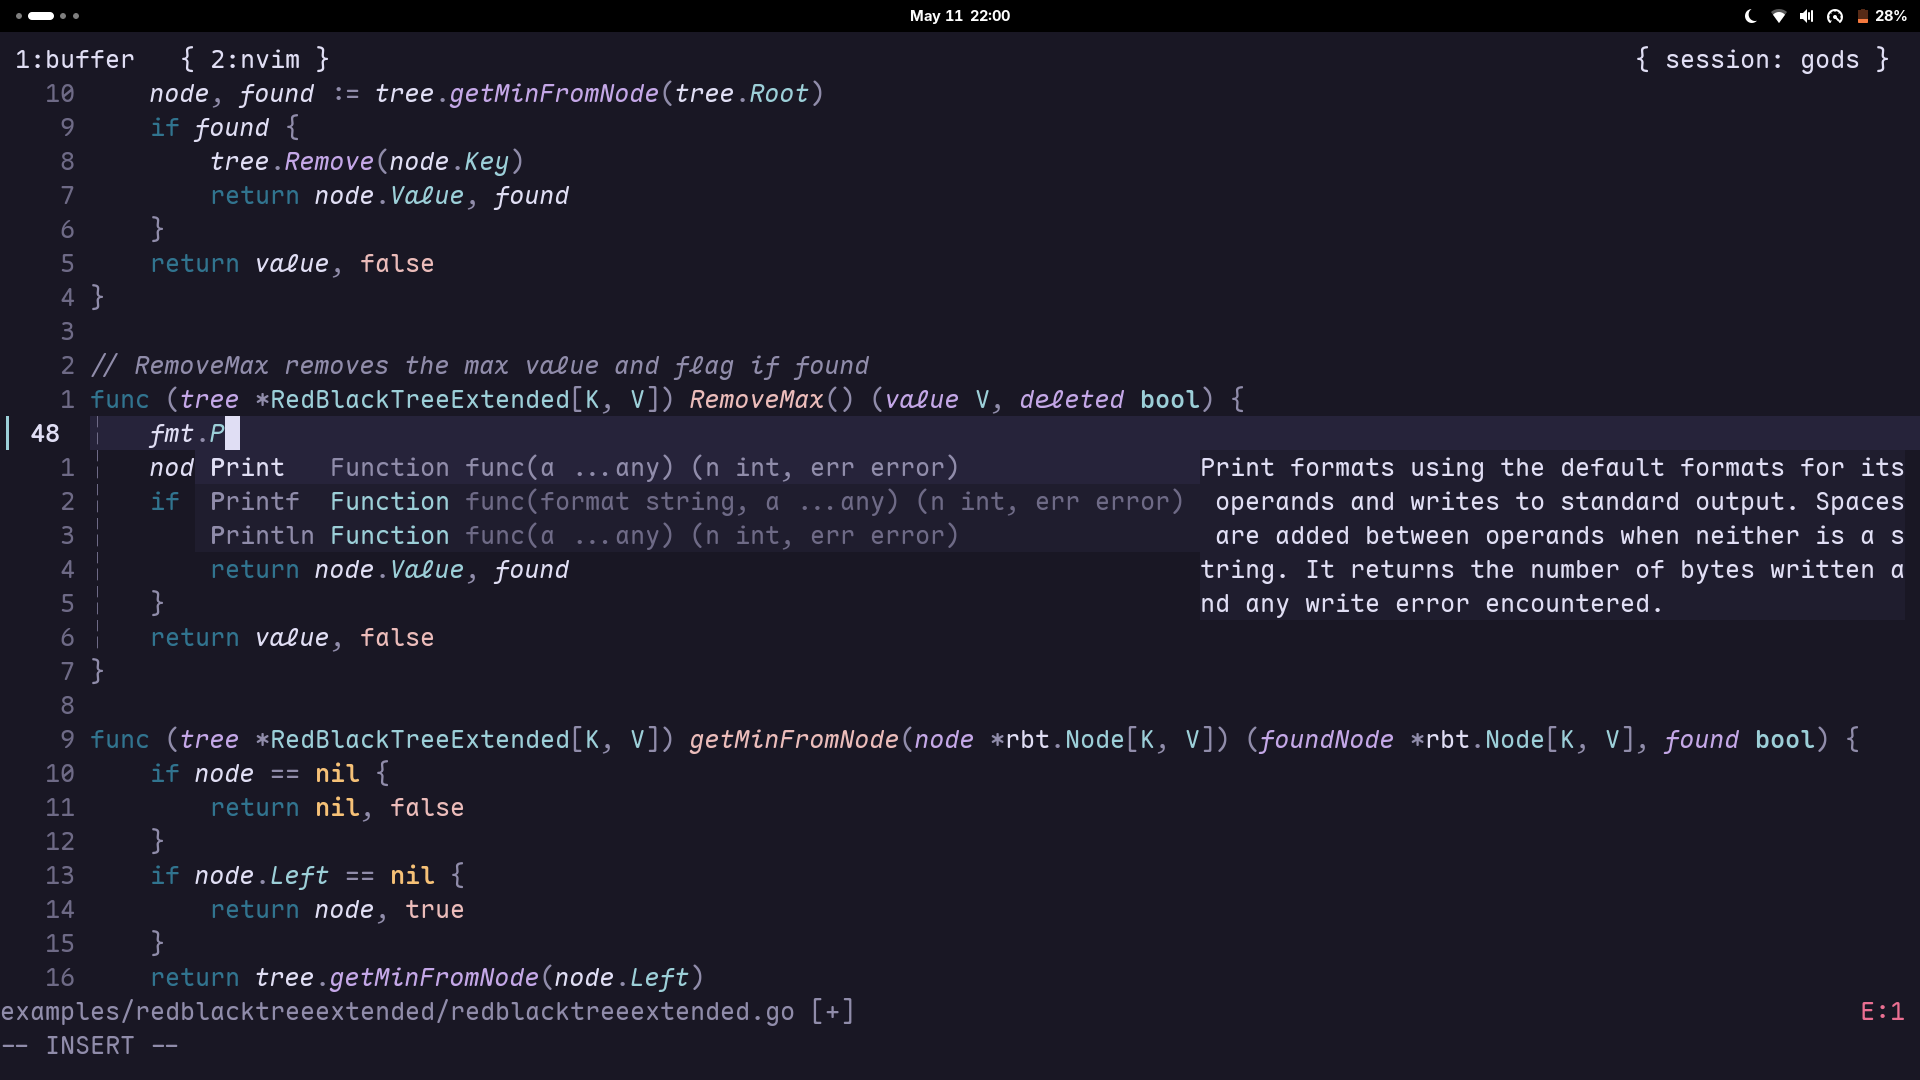
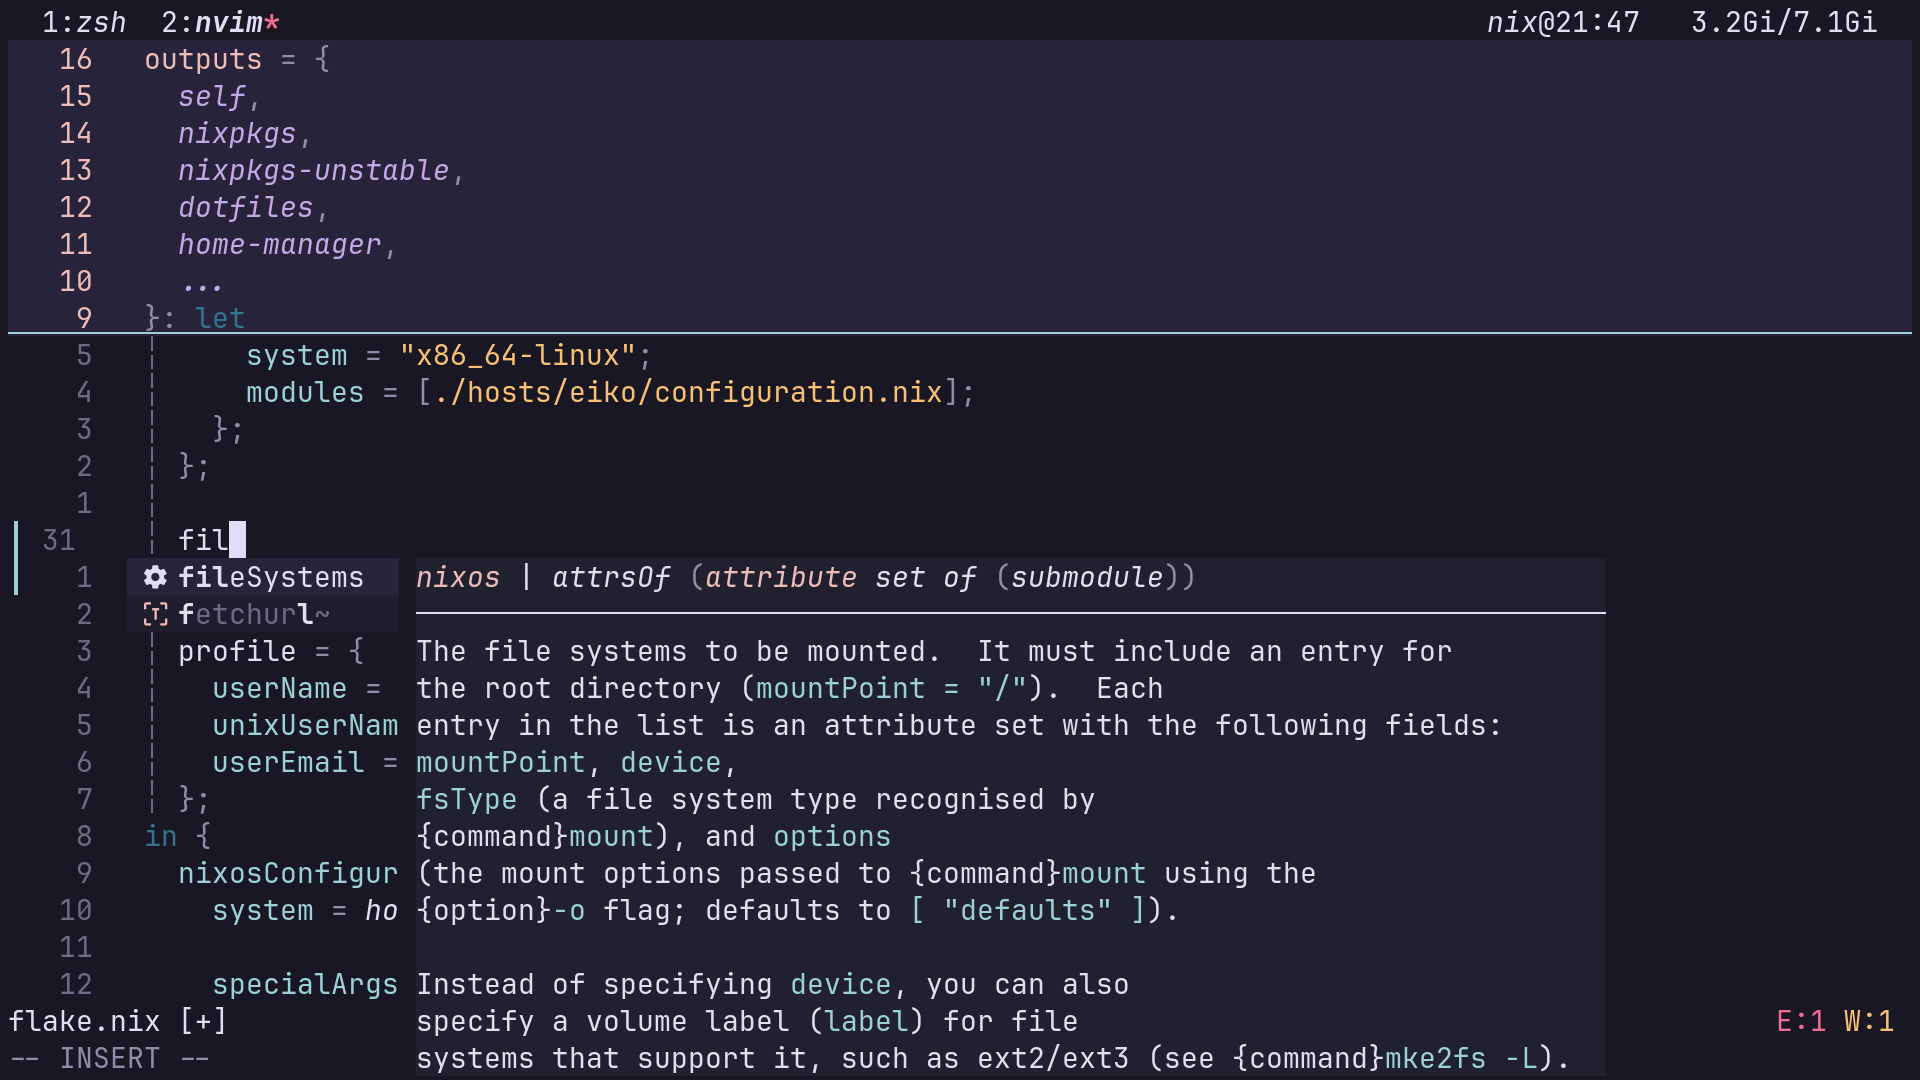
Edit home page

diff --git a/content/_index.md b/content/_index.md
@@ -28,17 +28,23 @@ Feel free to reach out, these are my usual handles.
 
 <br>
 
-I also enjoy spending my time on the little details.
-
-<br>
-
-![dotfiles](dotfiles.png)
-
-<br>
+I also enjoy spending my time on the little details. Here's a little sneak peak.
 
 My [dotfiles](https://github.com/TheRootDaemon/dotfiles) are a good example of that.
 They started as a way to _manage_ my **_development environment_** and
-gradually became something I genuinely enjoy maintaining.
+gradually became something I genuinely enjoy maintaining, here's a little sneak peak.
+
+<br>
+
+![dotfiles](/dotfiles.png)
+
+<br>
+
+And that eventually led me to [NixOS](https://nixos.org),
+where I manage my system **_declaratively_**.
+
+You can find my nixos configuration [here](https://github.com/TheRootDaemon/nixos).
+I was on **_cloud nine_** when I found that I can integrate my **_dotfiles_** directly through **_nix_**.
 
 Looking back, it might've been the time why I came to love with **_programming_**!
 
